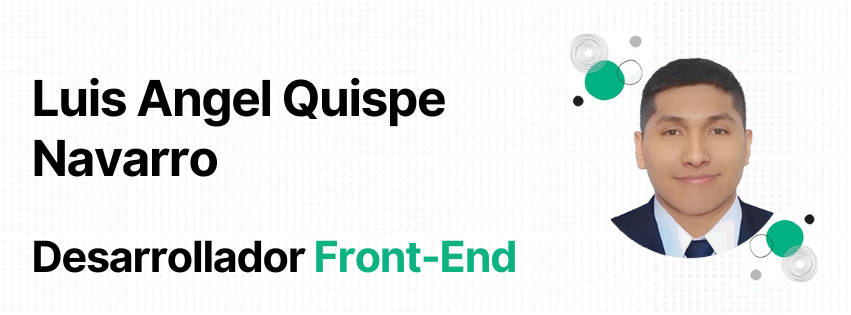
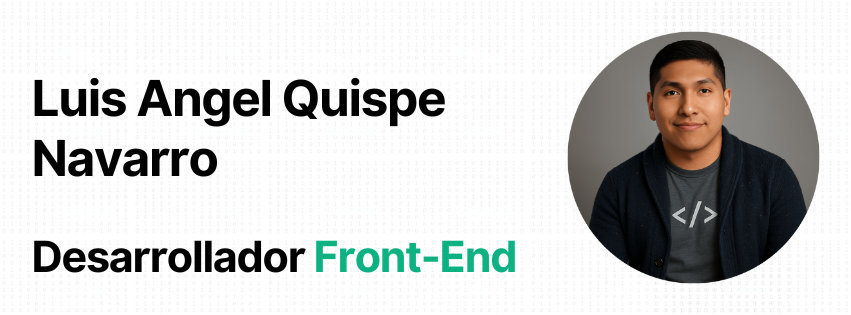
Update images of portada

Changed region(s): [[0.6416, 0.0857, 0.9777, 0.9143]]

diff --git a/index.html b/index.html
@@ -85,7 +85,7 @@
       <section class="hero-section py-5 bg-primary text-white">
         <div class="container">
           <div class="row align-items-center">
-            <div class="col-lg-6">
+            <div class="col-lg-7">
               <h1 class="display-4 fw-bold mb-4">
                 Hola, soy
                 <span class="text-highlight">Luis Angel Quispe Navarro</span>
@@ -104,7 +104,7 @@
                 >
               </div>
             </div>
-            <div class="col-lg-6 text-center">
+            <div class="col-lg-5 text-center">
               <img
                 src="https://res.cloudinary.com/dw9nir0q9/image/upload/v1749788915/Foto_Ampliada_final_fvobuh.png"
                 alt="Foto de perfil"

diff --git a/README.md b/README.md
@@ -1,5 +1,5 @@
 <div align="center">
-<img src="https://github.com/LuiangDev/EntregaDesarrolloWeb/blob/main/img/portada.png" alt="portada" />
+<img src="portada.png" alt="portada" />
 </div>
 
 # LuiangDev | Portafolio Web Personal 💻🌐
